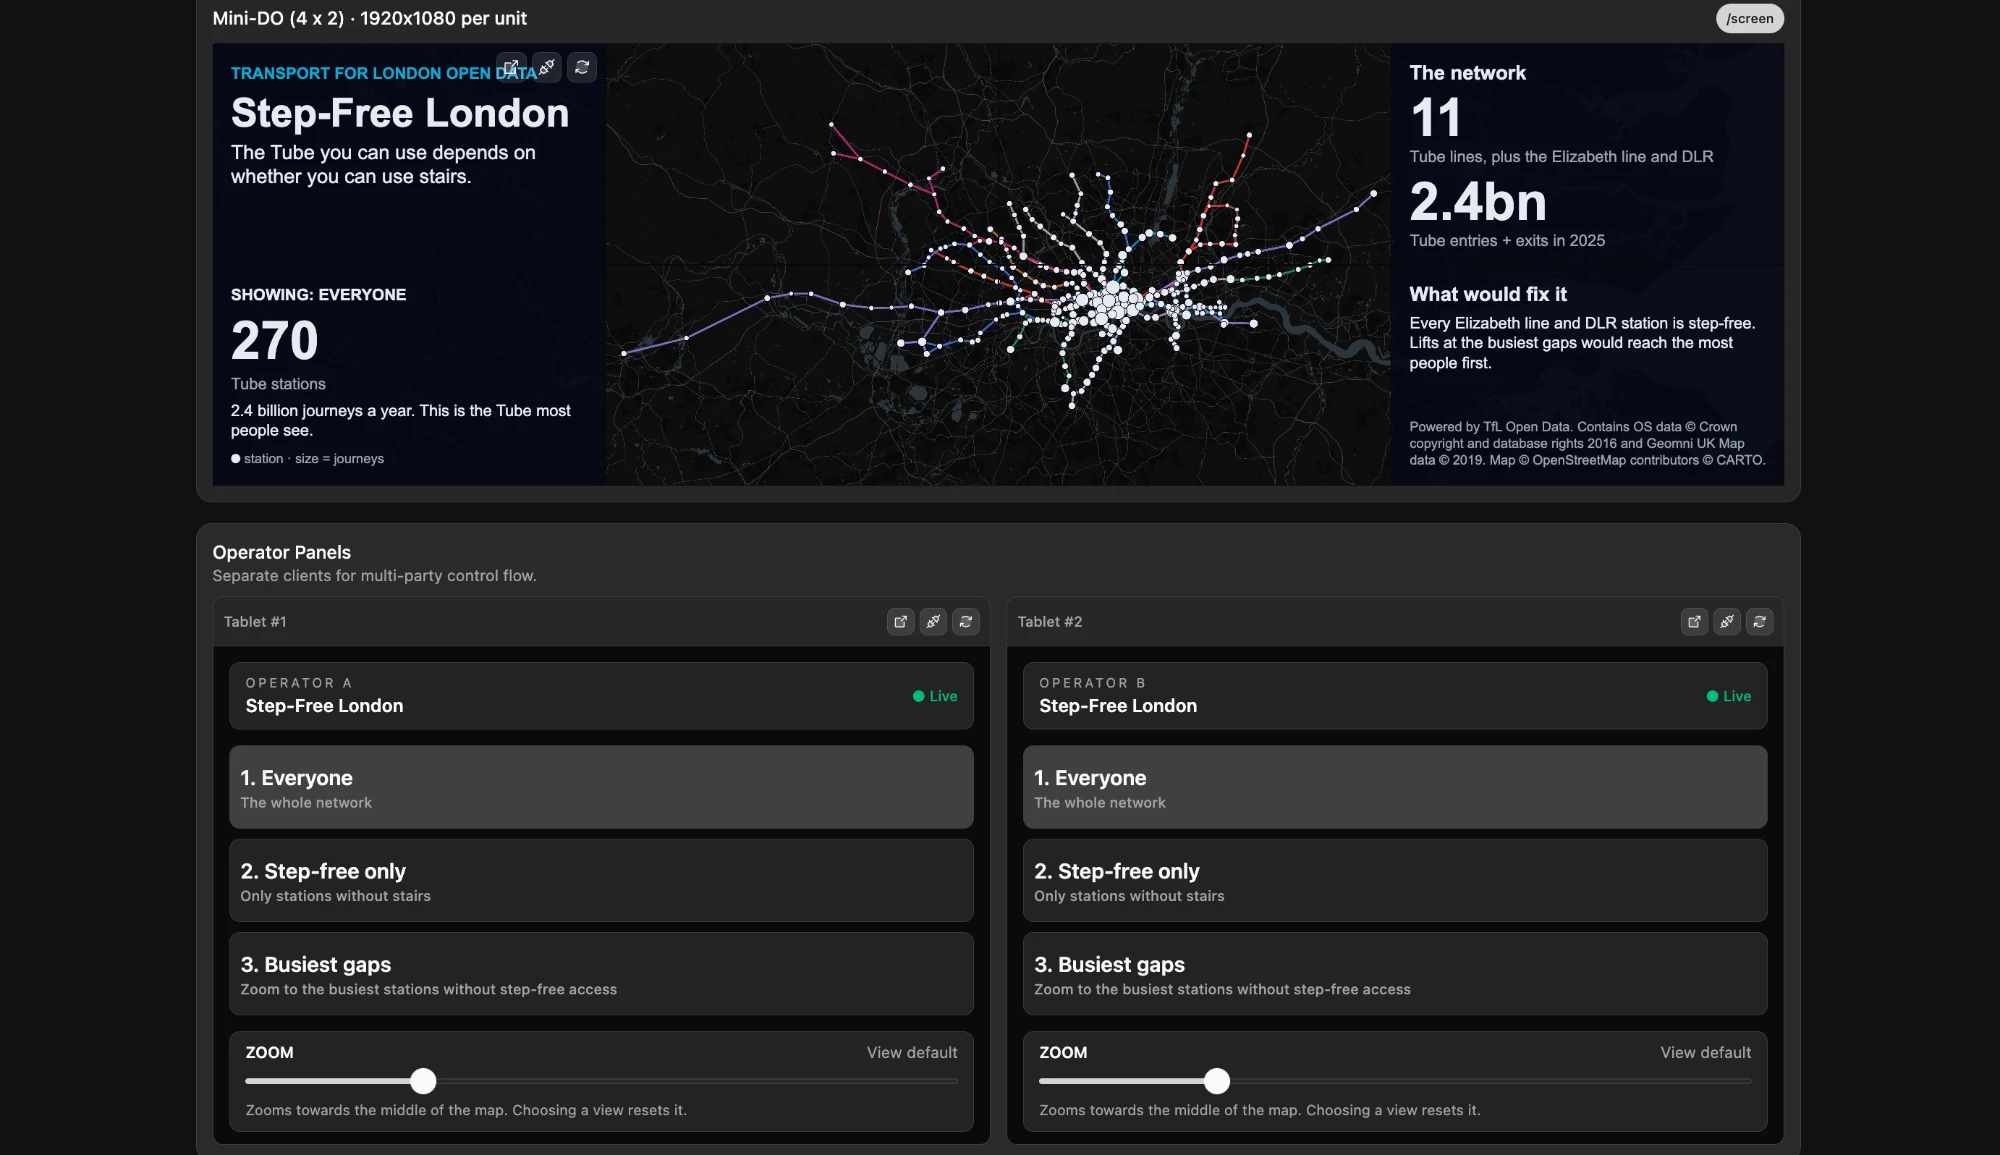
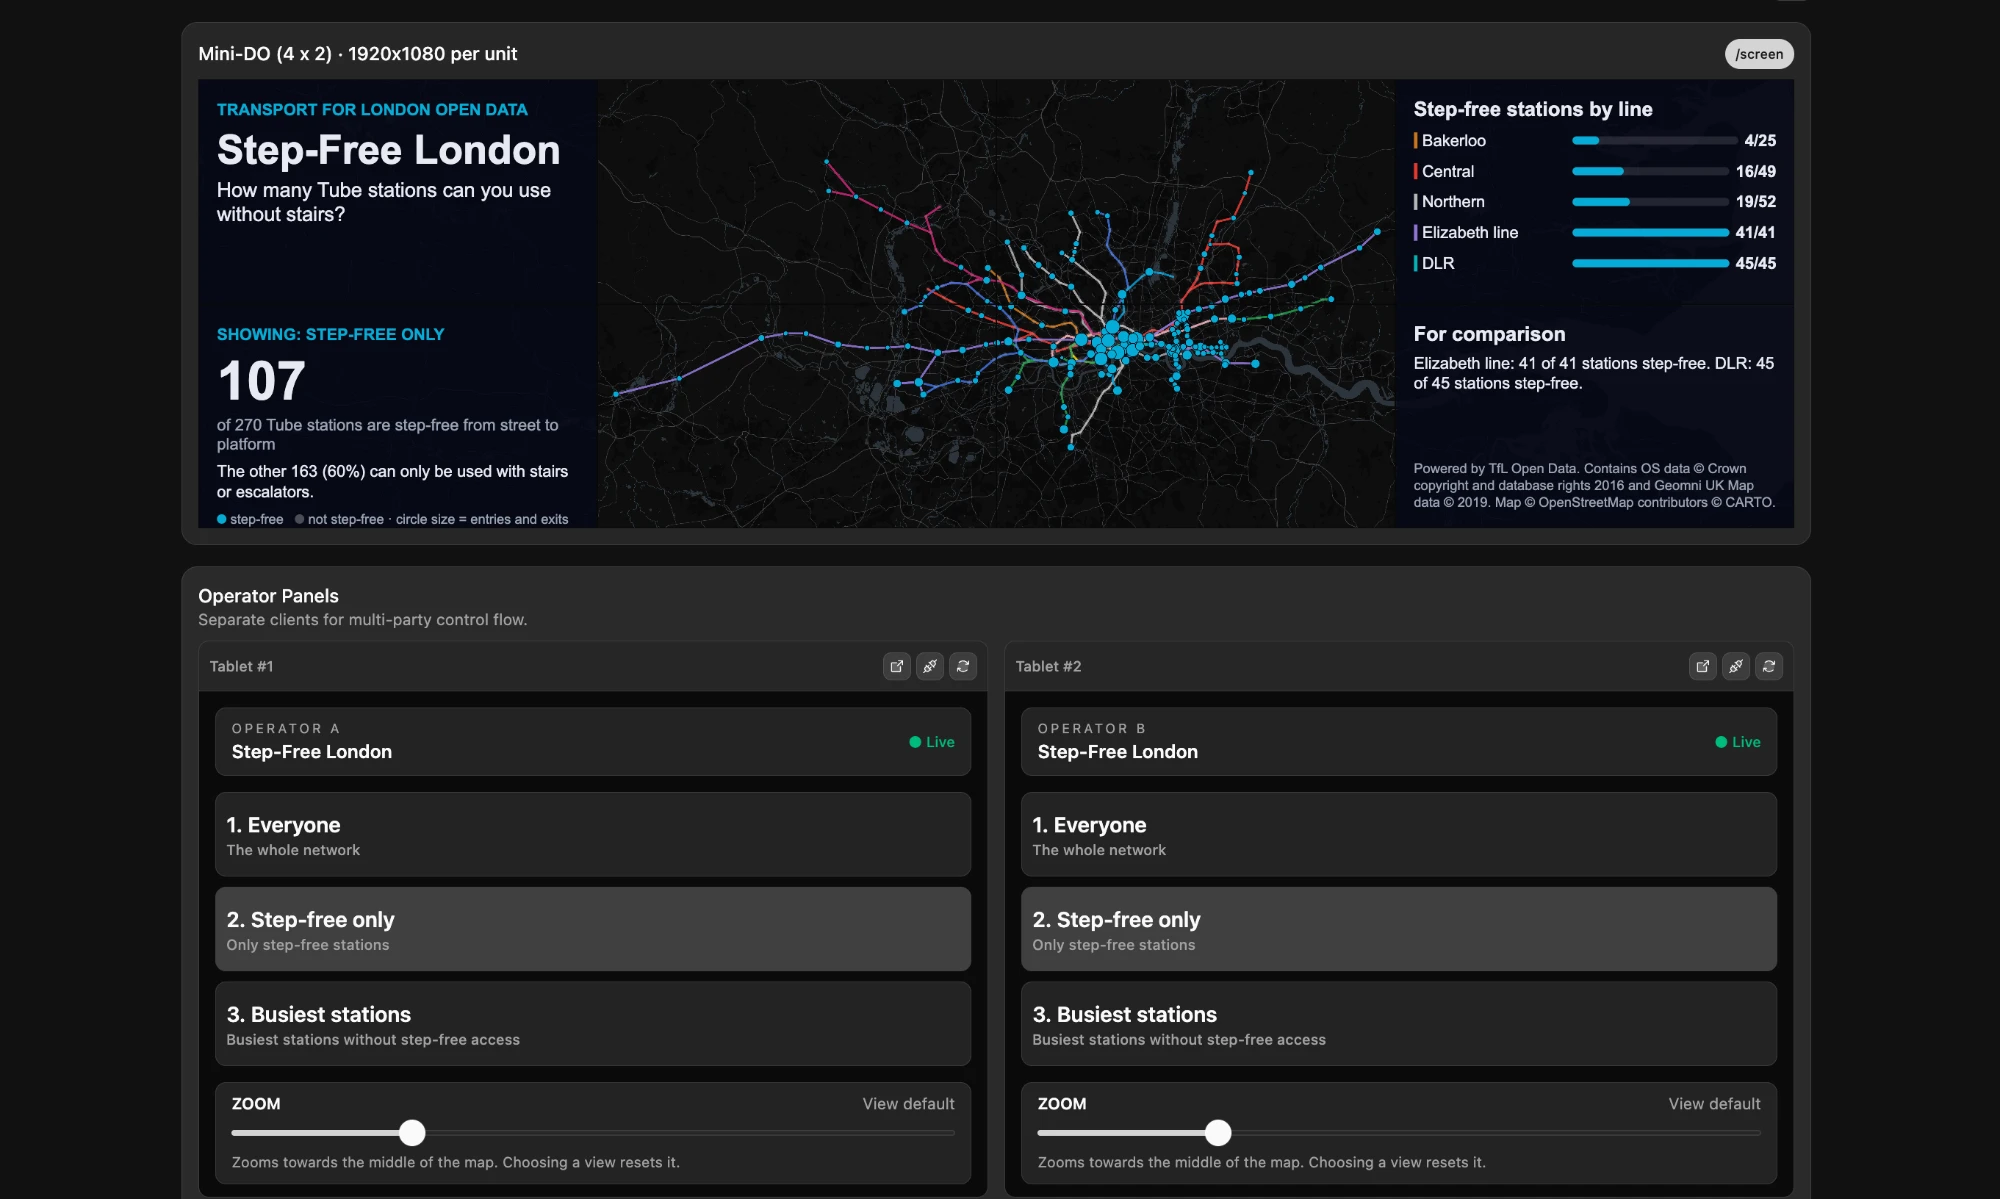
Plainer wall text and new screenshot

Changed region(s): [[0.093, 0.0, 0.93, 1.0], [0.372, 0.0312, 0.651, 0.0935], [0.62, 0.1247, 0.651, 0.1558]]

diff --git a/apps/website/src/components/wall-overlay.tsx b/apps/website/src/components/wall-overlay.tsx
@@ -1,5 +1,5 @@
 // Text on the wall, in four blocks that each cover whole screens:
-//   left top: title    left bottom: big number    right top: data    right bottom: credits
+//   left top: title    left bottom: big number    right top: data    right bottom: comparison + credits
 // Every screen draws the whole layer and shifts it by its own position.
 
 import type { CSSProperties, ReactNode } from 'react';
@@ -42,7 +42,7 @@ export function WallOverlay({ c, r, view, stats }: Props) {
                     Step-Free London
                 </h1>
                 <p style={{ fontSize: TYPE.heading, lineHeight: 1.2 }}>
-                    The Tube you can use depends on whether you can use stairs.
+                    How many Tube stations can you use without stairs?
                 </p>
             </Block>
 
@@ -80,10 +80,11 @@ export function WallOverlay({ c, r, view, stats }: Props) {
             </Block>
 
             <Block box={RIGHT_BOTTOM}>
-                <Heading>What would fix it</Heading>
+                <Heading>For comparison</Heading>
                 <p style={{ fontSize: TYPE.body, lineHeight: 1.25 }}>
-                    Every Elizabeth line and DLR station is step-free. Lifts at the busiest gaps
-                    would reach the most people first.
+                    {stats
+                        ? `${stats.modelLines.map((l) => `${l.name}: ${l.stepFree} of ${l.stations} stations step-free`).join('. ')}.`
+                        : ''}
                 </p>
                 <p
                     className="mt-auto"
@@ -149,10 +150,10 @@ function Legend({ view }: { view: View }) {
                 <>
                     <span style={dot(COLORS.stepFree)} />
                     step-free &nbsp; <span style={dot(COLORS.station, 0.3)} />
-                    no step-free route
+                    not step-free
                 </>
             )}
-            {' · size = journeys'}
+            {' · circle size = entries and exits'}
         </p>
     );
 }
@@ -224,11 +225,11 @@ function DataPanel({ view, stats }: { view: View; stats: StoryStats }) {
                 <Heading>The network</Heading>
                 <Figure
                     value={String(stats.tubeLines)}
-                    label="Tube lines, plus the Elizabeth line and DLR"
+                    label="Tube lines (Elizabeth line and DLR also shown)"
                 />
                 <Figure
                     value={formatBillions(stats.tubeUsage).replace(' billion', 'bn')}
-                    label={`Tube entries + exits in ${stats.usageYear}`}
+                    label={`entries and exits in ${stats.usageYear}`}
                 />
             </>
         );
@@ -238,7 +239,7 @@ function DataPanel({ view, stats }: { view: View; stats: StoryStats }) {
         const rows = [...stats.lines.slice(0, 3), ...stats.modelLines];
         return (
             <>
-                <Heading>Stations with step-free access</Heading>
+                <Heading>Step-free stations by line</Heading>
                 {rows.map((line) => (
                     <Bar
                         key={line.id}
@@ -255,7 +256,7 @@ function DataPanel({ view, stats }: { view: View; stats: StoryStats }) {
     const max = stats.busiestGaps[0]?.usage ?? 1;
     return (
         <>
-            <Heading>Busiest, no step-free route</Heading>
+            <Heading>Busiest, no step-free access</Heading>
             {stats.busiestGaps.map((gap) => (
                 <Bar
                     key={gap.index}

diff --git a/apps/website/src/lib/story/views.ts b/apps/website/src/lib/story/views.ts
@@ -20,22 +20,21 @@ export const VIEWS: Record<View, ViewCopy> = {
         label: 'Everyone',
         figure: (s) => String(s.tubeStations),
         figureLabel: () => 'Tube stations',
-        caption: (s) =>
-            `${formatBillions(s.tubeUsage)} journeys a year. This is the Tube most people see.`
+        caption: (s) => `${formatBillions(s.tubeUsage)} entries and exits in ${s.usageYear}.`
     },
     stepfree: {
         label: 'Step-free only',
         figure: (s) => String(s.tubeStepFree),
-        figureLabel: (s) => `of ${s.tubeStations} stations you can use without stairs`,
+        figureLabel: (s) =>
+            `of ${s.tubeStations} Tube stations are step-free from street to platform`,
         caption: (s) =>
-            `${percent(s.tubeNone, s.tubeStations)}% of Tube stations have no step-free route. Trains pass through; you can't get on or off.`
+            `The other ${s.tubeNone} (${percent(s.tubeNone, s.tubeStations)}%) can only be used with stairs or escalators.`
     },
     gaps: {
-        label: 'Busiest gaps',
+        label: 'Busiest stations',
         figure: (s) => formatBillions(s.tubeUsageNone).replace(' billion', 'bn'),
-        figureLabel: () => 'journeys a year at stations with no step-free route',
-        caption: (s) =>
-            `That is ${percent(s.tubeUsageNone, s.tubeUsage)}% of all Tube journeys, including London's busiest stations.`
+        figureLabel: () => 'entries and exits a year at stations without step-free access',
+        caption: (s) => `${percent(s.tubeUsageNone, s.tubeUsage)}% of all Tube entries and exits.`
     }
 };
 

diff --git a/apps/website/src/routes/control.tsx b/apps/website/src/routes/control.tsx
@@ -18,8 +18,8 @@ export const Route = createFileRoute('/control')({
 
 const HINTS = {
     everyone: 'The whole network',
-    stepfree: 'Only stations without stairs',
-    gaps: 'Zoom to the busiest stations without step-free access'
+    stepfree: 'Only step-free stations',
+    gaps: 'Busiest stations without step-free access'
 };
 
 // The tablet: buttons and a slider that send requests to the bus.

diff --git a/README.md b/README.md
@@ -3,18 +3,18 @@
 A Data Observatory (DO) demo using Transport for London open data. It shows how much of the
 Tube you can use if you can't use stairs.
 
-![The 4 x 2 simulator showing the Everyone view](docs/wall.webp)
+![The 4 x 2 simulator showing the Step-free only view](docs/wall.webp)
 
 ## The story
 
 The wall shows a map of the Tube, Elizabeth line and DLR. A controller switches between three
 views:
 
-| View               | What changes on the wall                                                                                 |
-| ------------------ | -------------------------------------------------------------------------------------------------------- |
-| **Everyone**       | All 270 Tube stations. Circle size shows how many people use each station.                               |
-| **Step-free only** | Stations with no step-free route from street to platform fade out. 107 stations are left.                |
-| **Busiest gaps**   | The map zooms into central London and the 6 busiest stations without step-free access are coloured pink. |
+| View                 | What changes on the wall                                                                                 |
+| -------------------- | -------------------------------------------------------------------------------------------------------- |
+| **Everyone**         | All 270 Tube stations. Circle size shows how many people use each station.                               |
+| **Step-free only**   | Stations with no step-free route from street to platform fade out. 107 stations are left.                |
+| **Busiest stations** | The map zooms into central London and the 6 busiest stations without step-free access are coloured pink. |
 
 There is also a zoom slider, as in the original starter.
 
